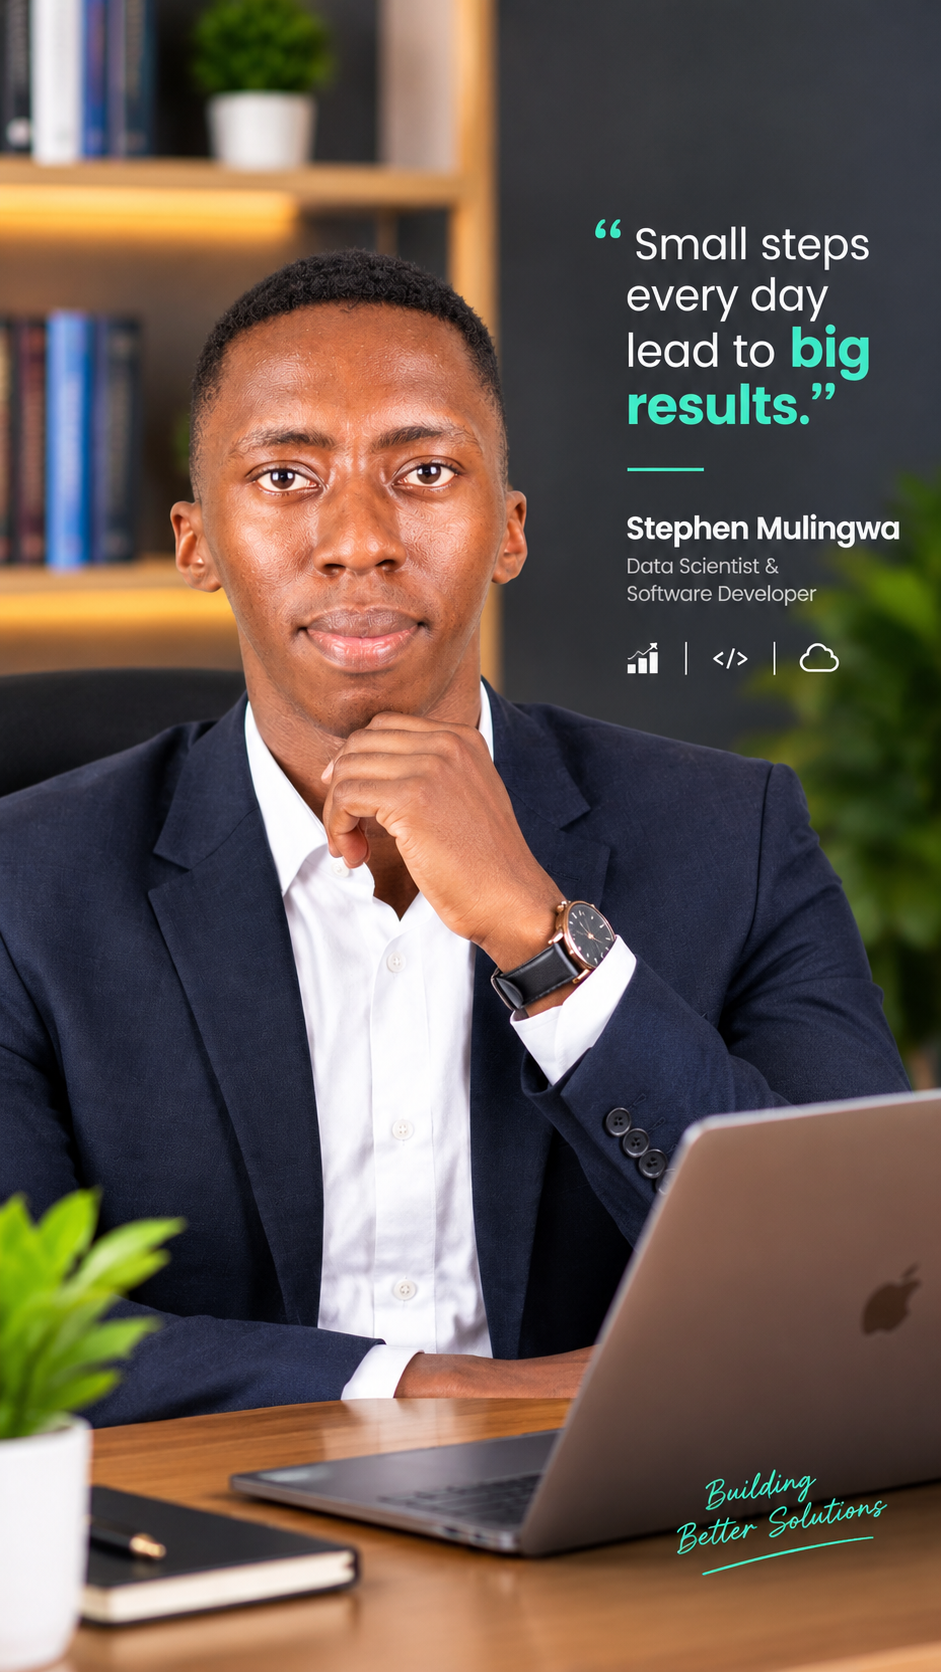
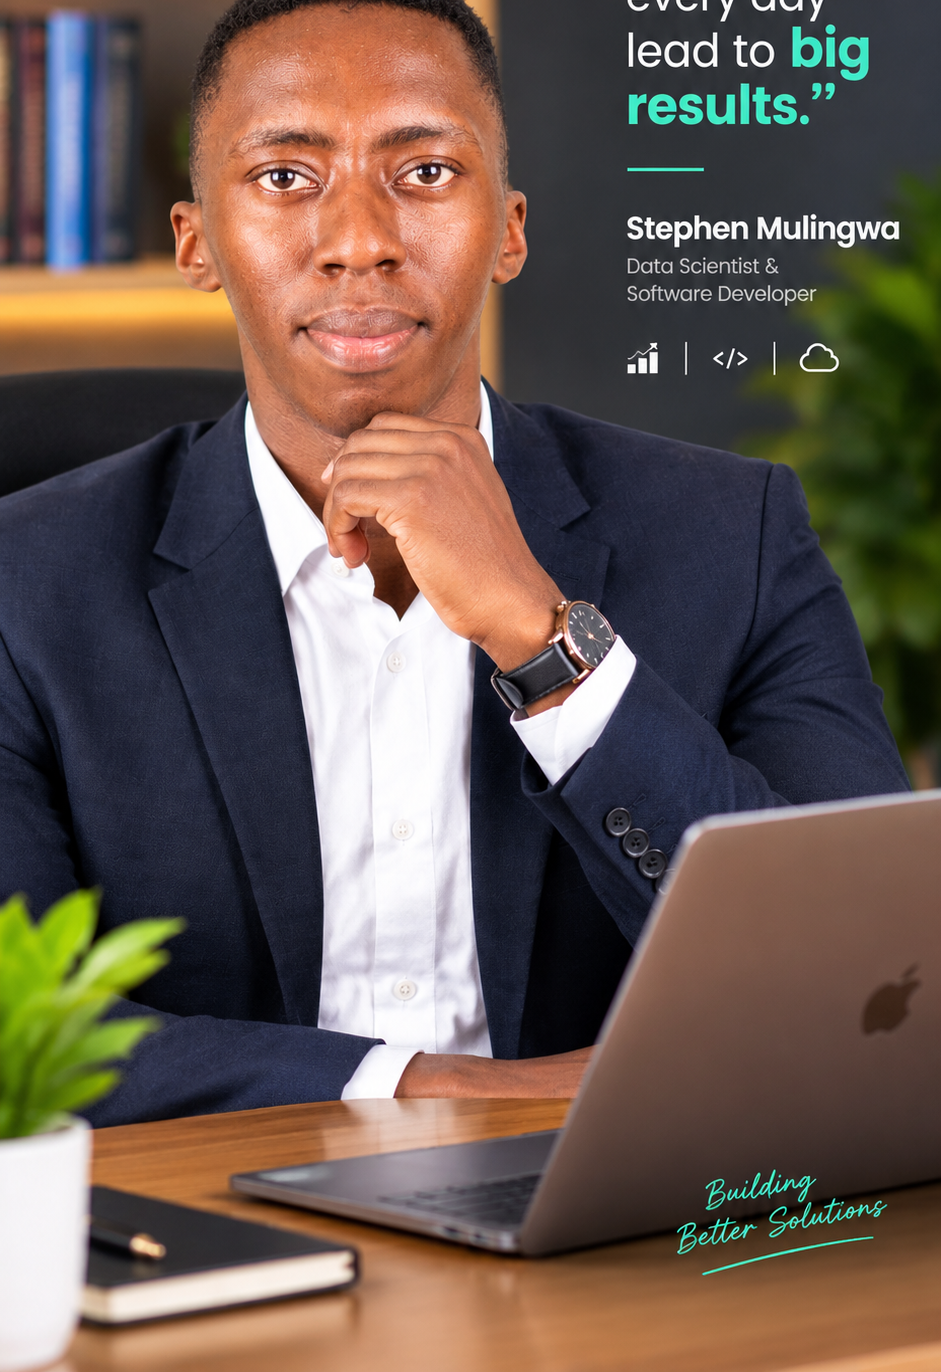
Undo hero layout changes; crop Me1 from the top only.
Restore prior photo display and shorten the image by trimming the top.

diff --git a/index.html b/index.html
@@ -122,52 +122,48 @@
     @media (max-width: 900px) { .nav-links, .nav-cta { display: none; } .nav-hamburger { display: block; } }
 
     /* ── HERO ── */
-    .hero { position: relative; min-height: auto; background: var(--bg-hero); display: flex; align-items: center; overflow: hidden; }
+    .hero { position: relative; min-height: 100vh; background: var(--bg-hero); display: flex; align-items: center; overflow: hidden; }
     .hero-grid-bg { position: absolute; inset: 0; background-image: linear-gradient(rgba(45,212,191,0.06) 1px,transparent 1px), linear-gradient(90deg,rgba(45,212,191,0.06) 1px,transparent 1px); background-size: 60px 60px; }
     .hero-radial { position: absolute; inset: 0; background: radial-gradient(ellipse 80% 60% at 60% 40%,rgba(45,212,191,0.08) 0%,transparent 70%); }
     .particles { position: absolute; inset: 0; pointer-events: none; }
     .particle { position: absolute; border-radius: 50%; background: rgba(45,212,191,0.5); animation: floatAnim linear infinite; }
     @keyframes floatAnim { 0% { transform: translateY(0) scale(1); opacity: 0.2; } 50% { transform: translateY(-40px) scale(1.5); opacity: 0.8; } 100% { transform: translateY(0) scale(1); opacity: 0.2; } }
-    .hero-content { position: relative; z-index: 10; display: grid; grid-template-columns: 1fr minmax(260px, 380px); gap: 48px; align-items: center; padding: 118px 0 40px; }
-    .hero-badge { display: inline-flex; align-items: center; gap: 8px; padding: 8px 16px; border-radius: 999px; border: 1px solid rgba(255,255,255,0.12); background: rgba(255,255,255,0.06); font-size: 0.75rem; color: rgba(255,255,255,0.6); font-weight: 500; letter-spacing: 0.05em; margin-bottom: 20px; }
+    .hero-content { position: relative; z-index: 10; display: grid; grid-template-columns: 1fr minmax(320px, 480px); gap: 64px; align-items: center; padding: 160px 0 80px; }
+    .hero-badge { display: inline-flex; align-items: center; gap: 8px; padding: 8px 16px; border-radius: 999px; border: 1px solid rgba(255,255,255,0.12); background: rgba(255,255,255,0.06); font-size: 0.75rem; color: rgba(255,255,255,0.6); font-weight: 500; letter-spacing: 0.05em; margin-bottom: 24px; }
     .hero-badge img { width: 22px; height: 22px; border-radius: 6px; object-fit: cover; }
-    .hero-title { font-family: var(--font-display); font-size: clamp(2.75rem,5.5vw,4.75rem); line-height: 1.05; color: var(--text-white); margin-bottom: 14px; }
+    .hero-title { font-family: var(--font-display); font-size: clamp(3rem,6vw,5.5rem); line-height: 1.05; color: var(--text-white); margin-bottom: 16px; }
     .name-glow { background: linear-gradient(135deg,var(--primary) 0%,#67e8f9 60%); -webkit-background-clip: text; -webkit-text-fill-color: transparent; background-clip: text; filter: drop-shadow(0 0 20px rgba(45,212,191,0.4)); }
-    .hero-role { display: flex; align-items: center; gap: 12px; margin-bottom: 18px; }
+    .hero-role { display: flex; align-items: center; gap: 12px; margin-bottom: 24px; }
     .hero-role .line { height: 1px; width: 32px; background: rgba(45,212,191,0.5); }
-    .hero-role p { font-family: var(--font-display); font-size: 1.05rem; color: rgba(255,255,255,0.55); font-style: italic; }
-    .hero-desc { color: rgba(255,255,255,0.45); max-width: 500px; font-size: 0.95rem; line-height: 1.7; margin-bottom: 28px; }
-    .hero-actions { display: flex; flex-wrap: wrap; gap: 14px; margin-bottom: 36px; }
-    .hero-stats { display: flex; gap: 36px; }
+    .hero-role p { font-family: var(--font-display); font-size: 1.15rem; color: rgba(255,255,255,0.55); font-style: italic; }
+    .hero-desc { color: rgba(255,255,255,0.45); max-width: 520px; font-size: 1rem; line-height: 1.8; margin-bottom: 40px; }
+    .hero-actions { display: flex; flex-wrap: wrap; gap: 14px; margin-bottom: 56px; }
+    .hero-stats { display: flex; gap: 40px; }
     .stat-item { text-align: center; }
-    .stat-val { font-family: var(--font-display); font-size: 1.85rem; color: var(--text-white); }
+    .stat-val { font-family: var(--font-display); font-size: 2rem; color: var(--text-white); }
     .stat-label { font-size: 0.72rem; color: rgba(255,255,255,0.35); letter-spacing: 0.05em; margin-top: 2px; }
-    .hero-photo-wrap { position: relative; display: flex; justify-content: center; max-width: 380px; margin: 0 auto; }
-    .hero-photo-glow { position: absolute; inset: -18px; border-radius: 24px; background: linear-gradient(135deg,rgba(45,212,191,0.3),rgba(103,232,249,0.1)); filter: blur(36px); }
-    .hero-photo-frame { position: relative; width: 100%; max-width: 380px; height: 460px; border-radius: 22px; overflow: hidden; border: 1.5px solid rgba(255,255,255,0.1); box-shadow: 0 24px 60px rgba(0,0,0,0.45), inset 0 0 0 1px rgba(255,255,255,0.05); background: rgba(255,255,255,0.03); }
-    .hero-photo-frame > img { width: 100%; height: 100%; display: block; object-fit: cover; object-position: center 10%; }
-    .scroll-hint { position: absolute; bottom: 14px; left: 50%; transform: translateX(-50%); z-index: 10; animation: bounce 2s ease-in-out infinite; }
-    .scroll-hint i { font-size: 1.2rem; color: rgba(255,255,255,0.25); }
+    .hero-photo-wrap { position: relative; display: flex; justify-content: center; }
+    .hero-photo-glow { position: absolute; inset: -24px; border-radius: 24px; background: linear-gradient(135deg,rgba(45,212,191,0.3),rgba(103,232,249,0.1)); filter: blur(40px); }
+    .hero-photo-frame { position: relative; width: min(460px, 100%); height: auto; border-radius: 22px; overflow: hidden; border: 1.5px solid rgba(255,255,255,0.1); box-shadow: 0 30px 80px rgba(0,0,0,0.5), inset 0 0 0 1px rgba(255,255,255,0.05); background: rgba(255,255,255,0.03); }
+    .hero-photo-frame > img { width: 100%; height: auto; display: block; object-fit: contain; object-position: center top; }
+    .scroll-hint { position: absolute; bottom: 28px; left: 50%; transform: translateX(-50%); z-index: 10; animation: bounce 2s ease-in-out infinite; }
+    .scroll-hint i { font-size: 1.4rem; color: rgba(255,255,255,0.25); }
     @keyframes bounce { 0%,100% { transform: translateX(-50%) translateY(0); } 50% { transform: translateX(-50%) translateY(8px); } }
-    @media (max-width: 960px) {
-      .hero-content { grid-template-columns: 1fr; gap: 32px; padding: 120px 0 36px; }
-      .hero-photo-wrap { order: -1; max-width: 320px; }
-      .hero-photo-frame { max-width: 320px; height: 400px; }
-    }
+    @media (max-width: 960px) { .hero-content { grid-template-columns: 1fr; gap: 48px; padding: 140px 0 60px; } .hero-photo-wrap { order: -1; } .hero-photo-frame { width: min(400px, 88vw); } }
     @media (max-width: 560px) {
-      .hero { min-height: auto; padding-bottom: 24px; }
-      .hero-content { grid-template-columns: 1fr; align-items: start; padding: 112px 0 28px; gap: 22px; text-align: left; }
+      .hero { min-height: auto; padding-bottom: 40px; }
+      .hero-content { grid-template-columns: 1fr; align-items: start; padding: 128px 0 48px; gap: 28px; text-align: left; }
       .hero-content > div:first-child { grid-column: 1; order: 1; }
-      .hero-photo-wrap { order: 2; grid-column: 1; justify-content: center; max-width: min(280px, 82vw); }
-      .hero-title { font-size: 2.8rem; line-height: 1.05; margin-bottom: 12px; }
-      .hero-role { margin-bottom: 14px; }
-      .hero-role p { font-size: 0.98rem; }
-      .hero-desc { max-width: none; margin-bottom: 18px; font-size: 0.92rem; line-height: 1.7; }
-      .hero-actions { margin-bottom: 18px; }
+      .hero-photo-wrap { order: 2; grid-column: 1; justify-content: center; }
+      .hero-title { font-size: 3.1rem; line-height: 1.05; margin-bottom: 14px; }
+      .hero-role { margin-bottom: 16px; }
+      .hero-role p { font-size: 1.05rem; }
+      .hero-desc { max-width: none; margin-bottom: 22px; font-size: 1rem; line-height: 1.75; }
+      .hero-actions { margin-bottom: 22px; }
       .hero-actions .btn { width: 100%; justify-content: center; padding: 14px 18px; }
-      .hero-stats { gap: 16px; justify-content: flex-start; flex-wrap: wrap; }
-      .stat-val { font-size: 1.5rem; }
-      .hero-photo-frame { max-width: min(280px, 82vw); height: 360px; }
+      .hero-stats { gap: 18px; justify-content: flex-start; flex-wrap: wrap; }
+      .stat-val { font-size: 1.6rem; }
+      .hero-photo-frame { width: min(340px, 92vw); }
     }
 
     /* ── ABOUT ── */
